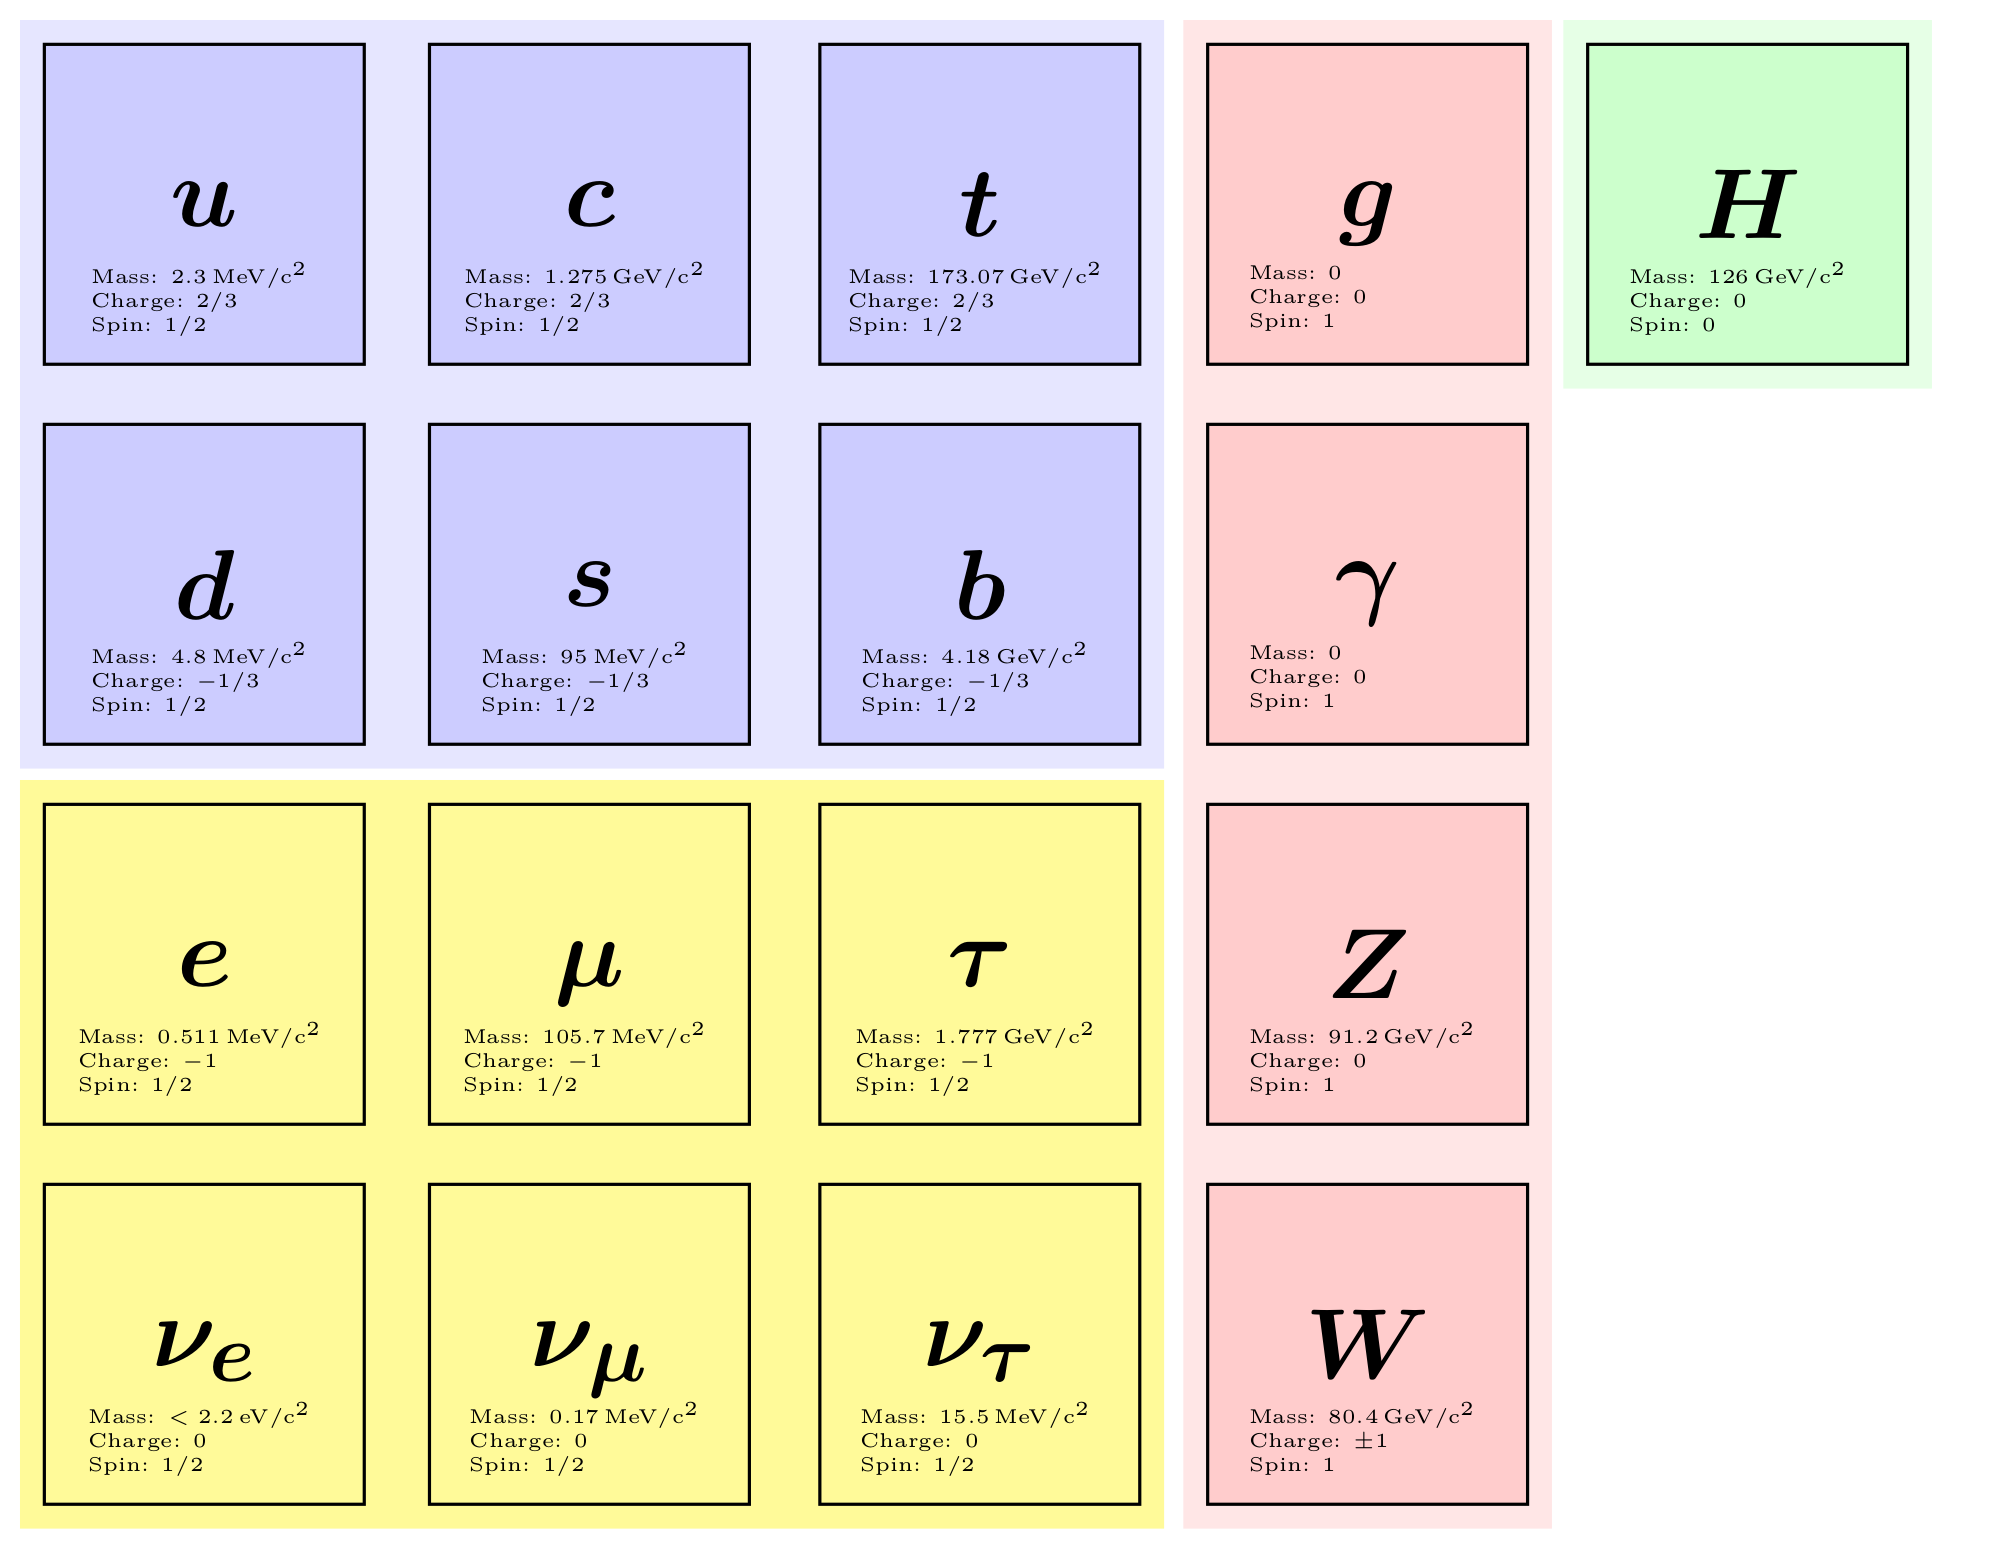
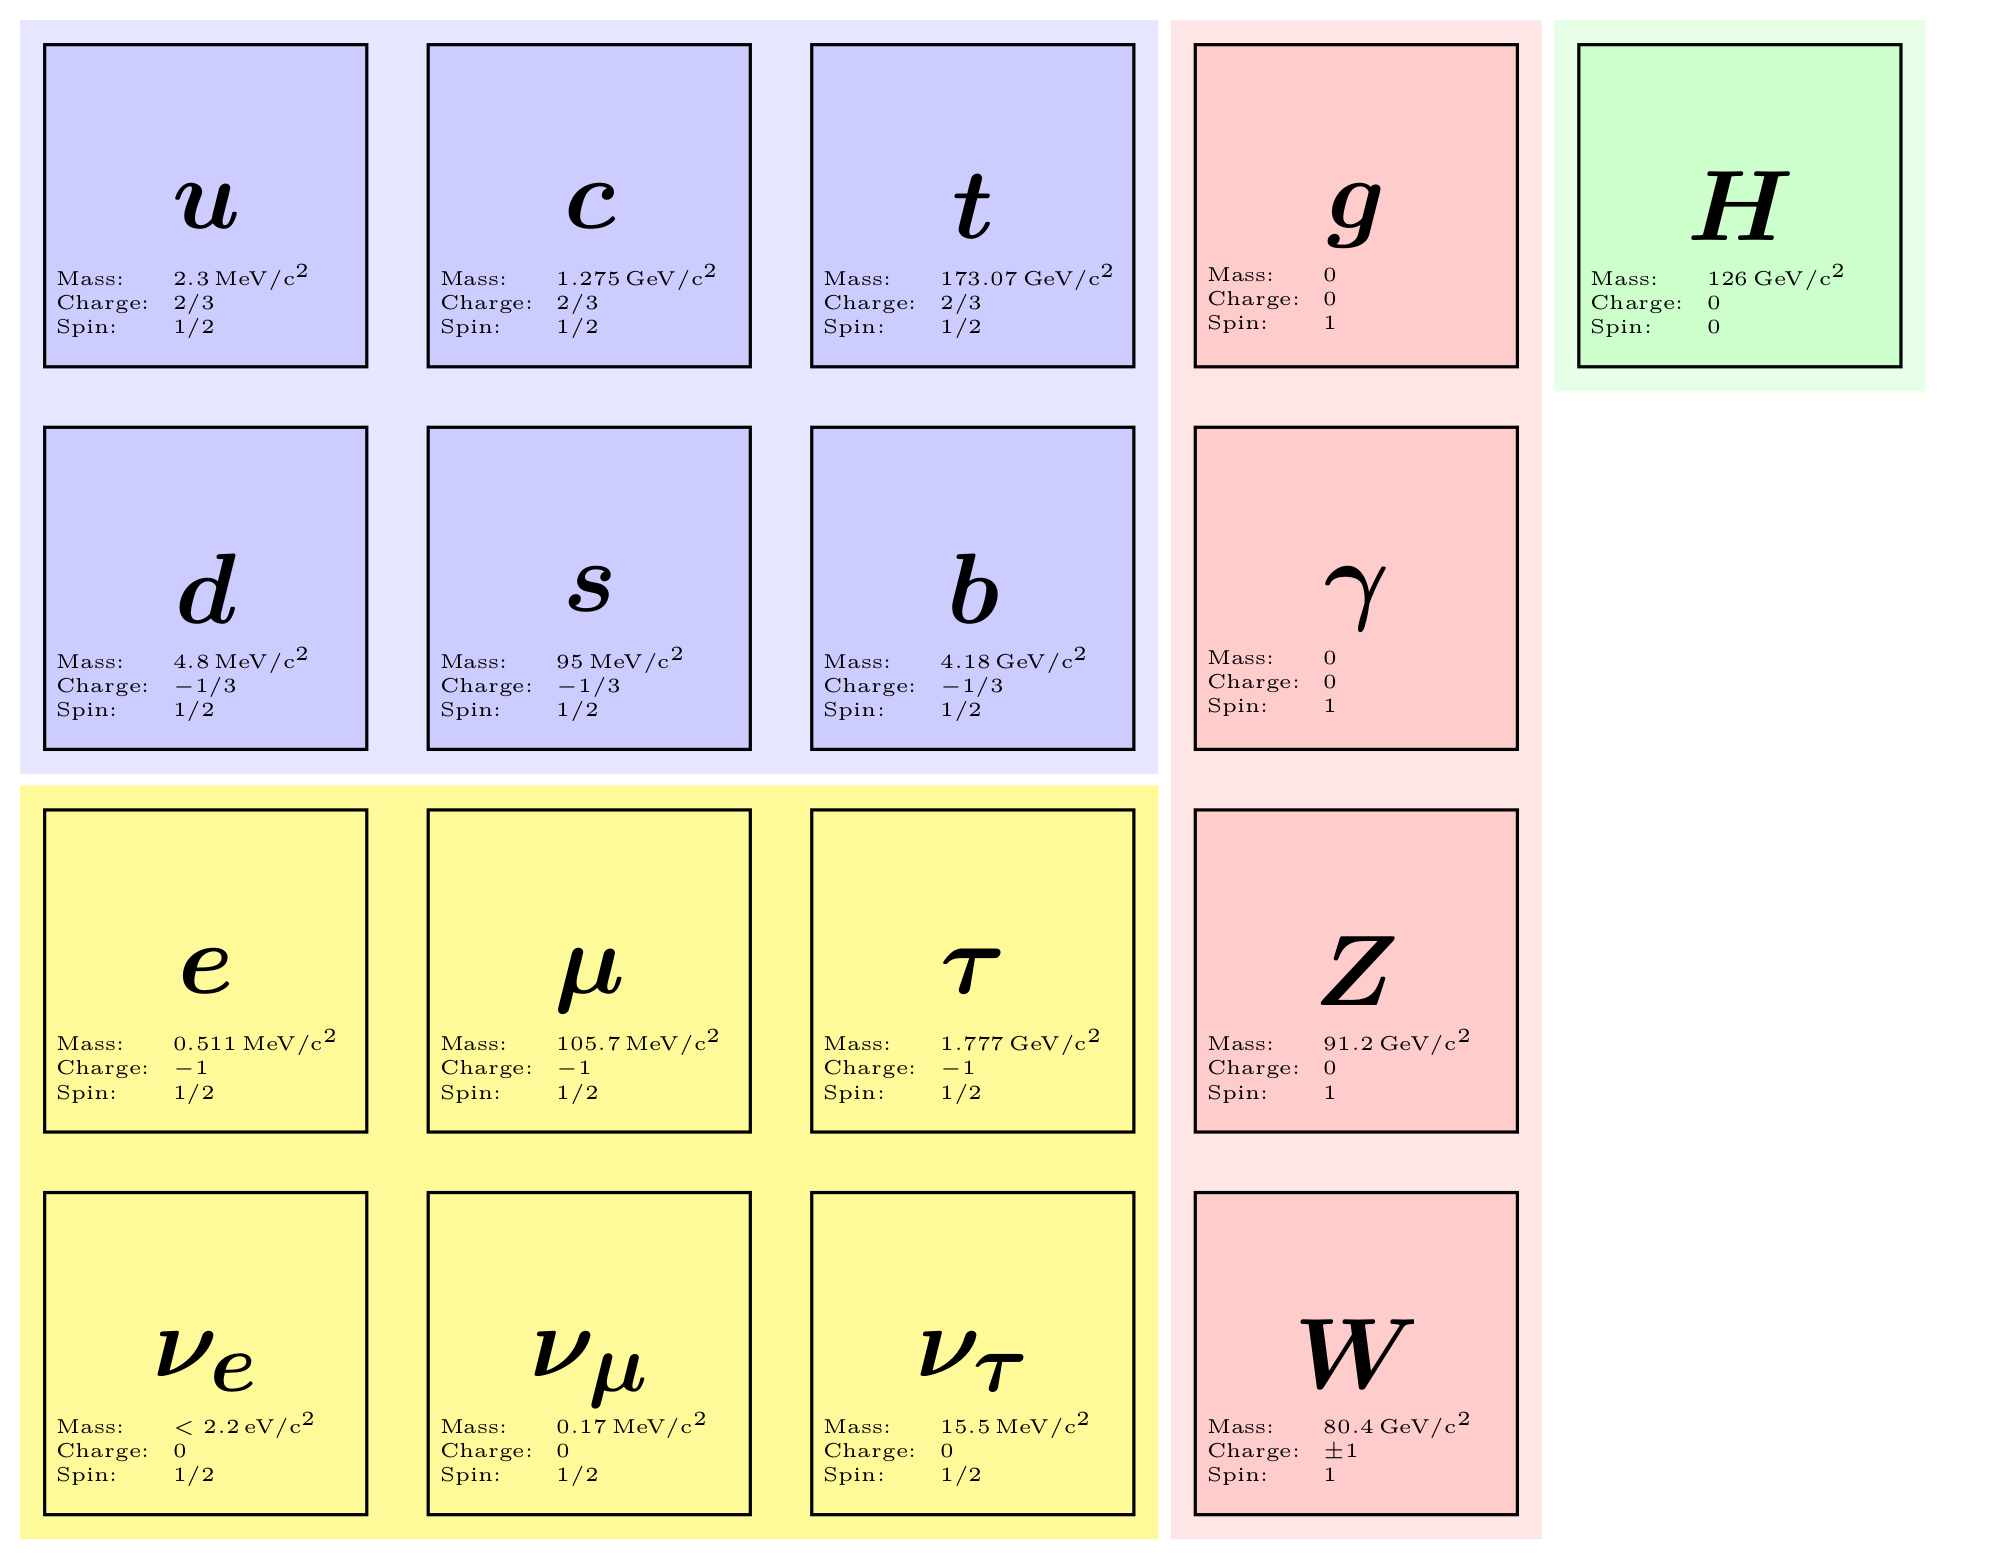
tidy

diff --git a/LaTeX/SM_3.tex b/LaTeX/SM_3.tex
@@ -2,7 +2,7 @@
 %                                                                              %
 % SM_3                                                                         %
 %                                                                              %
-% version: 2016-10-31T1727Z                                                    %
+% version: 2016-10-31T2131Z                                                    %
 %                                                                              %
 % Will Breaden Madden                                                          %
 %                                                                              %
@@ -65,7 +65,6 @@
 \tikzstyle{particleblue}=[
     rectangle,
     thick,
-    minimum size=1.5cm,
     draw=black,
     fill=blue!20,
     minimum size=80pt
@@ -73,7 +72,6 @@
 \tikzstyle{particlegreen}=[
     rectangle,
     thick,
-    minimum size=1.5cm,
     draw=black,
     fill=green!20,
     minimum size=80pt
@@ -81,7 +79,6 @@
 \tikzstyle{particlered}=[
     rectangle,
     thick,
-    minimum size=1.5cm,
     draw=black,
     fill=red!20,
     minimum size=80pt
@@ -89,7 +86,6 @@
 \tikzstyle{particleyellow}=[
     rectangle,
     thick,
-    minimum size=1.5cm,
     draw=black,
     fill=yellow!40,
     minimum size=80pt
@@ -116,51 +112,51 @@
     inner sep=0.2cm
 ]
 
-\newcommand\particleblue[5]{%{label}{name}{mass}{charge}{spin}
+\newcommand\particleblue[5]{% {label}{name}{mass}{charge}{spin}
     \node (#1) [particleblue]{
         \Huge${\boldsymbol{#2}}$};
     \node[below=11pt]{%
         \tiny
-        \begin{tabular}{l}
-        Mass: ${#3}$\\
-        Charge: ${#4}$\\
-        Spin: ${#5}$
+        \begin{tabular}{@{}p{17pt}p{43pt}@{}}
+        Mass:&${#3}$\\
+        Charge:&${#4}$\\
+        Spin:&${#5}$
         \end{tabular}
     };
 }
-\newcommand\particlegreen[5]{%{label}{name}{mass}{charge}{spin}
+\newcommand\particlegreen[5]{% {label}{name}{mass}{charge}{spin}
     \node (#1) [particlegreen]{
         \Huge${\boldsymbol{#2}}$};
     \node[below=11pt]{%
         \tiny
-        \begin{tabular}{l}
-        Mass: ${#3}$\\
-        Charge: ${#4}$\\
-        Spin: ${#5}$
+        \begin{tabular}{@{}p{17pt}p{43pt}@{}}
+        Mass:&${#3}$\\
+        Charge:&${#4}$\\
+        Spin:&${#5}$
         \end{tabular}
     };
 }
-\newcommand\particlered[5]{%{label}{name}{mass}{charge}{spin}
+\newcommand\particlered[5]{% {label}{name}{mass}{charge}{spin}
     \node (#1) [particlered]{
         \Huge${\boldsymbol{#2}}$};
     \node[below=11pt]{%
         \tiny
-        \begin{tabular}{l}
-        Mass: ${#3}$\\
-        Charge: ${#4}$\\
-        Spin: ${#5}$
+        \begin{tabular}{@{}p{17pt}p{43pt}@{}}
+        Mass:&${#3}$\\
+        Charge:&${#4}$\\
+        Spin:&${#5}$
         \end{tabular}
     };
 }
-\newcommand\particleyellow[5]{%{label}{name}{mass}{charge}{spin}
+\newcommand\particleyellow[5]{% {label}{name}{mass}{charge}{spin}
     \node (#1) [particleyellow]{
         \Huge${\boldsymbol{#2}}$};
     \node[below=11pt]{%
         \tiny
-        \begin{tabular}{l}
-        Mass: ${#3}$\\
-        Charge: ${#4}$\\
-        Spin: ${#5}$
+        \begin{tabular}{@{}p{17pt}p{43pt}@{}}
+        Mass:&${#3}$\\
+        Charge:&${#4}$\\
+        Spin:&${#5}$
         \end{tabular}
     };
 }
@@ -168,26 +164,26 @@
 \begin{tikzpicture}[>=latex,text depth=0.00ex]
     % elements in a matrix
     \matrix[row sep=0.5cm,column sep=0.5cm, nodes={align=left}]{
-        \particleblue{u}{u}{2.3\,\si{MeV/c^2}}{2/3}{1/2} &
-        \particleblue{c}{c}{1.275\,\si{GeV/c^2}}{2/3}{1/2} &
-        \particleblue{t}{t}{173.07\,\si{GeV/c^2}}{2/3}{1/2} &
-        \particlered{g}{g}{0}{0}{1~~~~~~~~~~~~~~~} &
-        \particlegreen{H}{H}{126\,\si{GeV/c^2}}{0}{0~~~~~~~~~~~~~~~} &
+        \particleblue{u}{u}{2.3\,\si{MeV/c^2}}{2/3}{1/2}&
+        \particleblue{c}{c}{1.275\,\si{GeV/c^2}}{2/3}{1/2}&
+        \particleblue{t}{t}{173.07\,\si{GeV/c^2}}{2/3}{1/2}&
+        \particlered{g}{g}{0}{0}{1}&
+        \particlegreen{H}{H}{126\,\si{GeV/c^2}}{0}{0}&
         \\
-        \particleblue{d}{d}{4.8\,\si{MeV/c^2}}{-1/3}{1/2} &
-        \particleblue{s}{s}{95\,\si{MeV/c^2}}{-1/3}{1/2} &
-        \particleblue{b}{b}{4.18\,\si{GeV/c^2}}{-1/3}{1/2} &
-        \particlered{gamma}{\gamma}{0}{0}{1~~~~~~~~~~~~~~~} &
+        \particleblue{d}{d}{4.8\,\si{MeV/c^2}}{-1/3}{1/2}&
+        \particleblue{s}{s}{95\,\si{MeV/c^2}}{-1/3}{1/2}&
+        \particleblue{b}{b}{4.18\,\si{GeV/c^2}}{-1/3}{1/2}&
+        \particlered{gamma}{\gamma}{0}{0}{1}&
         \\
-        \particleyellow{e}{e}{0.511\,\si{MeV/c^2}}{-1}{1/2} &
-        \particleyellow{mu}{\mu}{105.7\,\si{MeV/c^2}}{-1}{1/2} &
-        \particleyellow{tau}{\tau}{1.777\,\si{GeV/c^2}}{-1}{1/2} &
-        \particlered{Z}{Z}{91.2\,\si{GeV/c^2}}{0}{1~~~~~~~~~~~~~~~} &
+        \particleyellow{e}{e}{0.511\,\si{MeV/c^2}}{-1}{1/2}&
+        \particleyellow{mu}{\mu}{105.7\,\si{MeV/c^2}}{-1}{1/2}&
+        \particleyellow{tau}{\tau}{1.777\,\si{GeV/c^2}}{-1}{1/2}&
+        \particlered{Z}{Z}{91.2\,\si{GeV/c^2}}{0}{1}&
         \\
-        \particleyellow{nu_e}{\nu_{e}}{<2.2\,\si{eV/c^2}}{0}{1/2} &
-        \particleyellow{nu_mu}{\nu_{\mu}}{0.17\,\si{MeV/c^2}}{0}{1/2} &
-        \particleyellow{nu_tau}{\nu_{\tau}}{15.5\,\si{MeV/c^2}}{0}{1/2} &
-        \particlered{W}{W}{80.4\,\si{GeV/c^2}}{\pm{1}}{1~~~~~~~~~~~~~~~} &
+        \particleyellow{nu_e}{\nu_{e}}{<2.2\,\si{eV/c^2}}{0}{1/2}&
+        \particleyellow{nu_mu}{\nu_{\mu}}{0.17\,\si{MeV/c^2}}{0}{1/2}&
+        \particleyellow{nu_tau}{\nu_{\tau}}{15.5\,\si{MeV/c^2}}{0}{1/2}&
+        \particlered{W}{W}{80.4\,\si{GeV/c^2}}{\pm{1}}{1}&
         \\
     };
     % background rectanges
